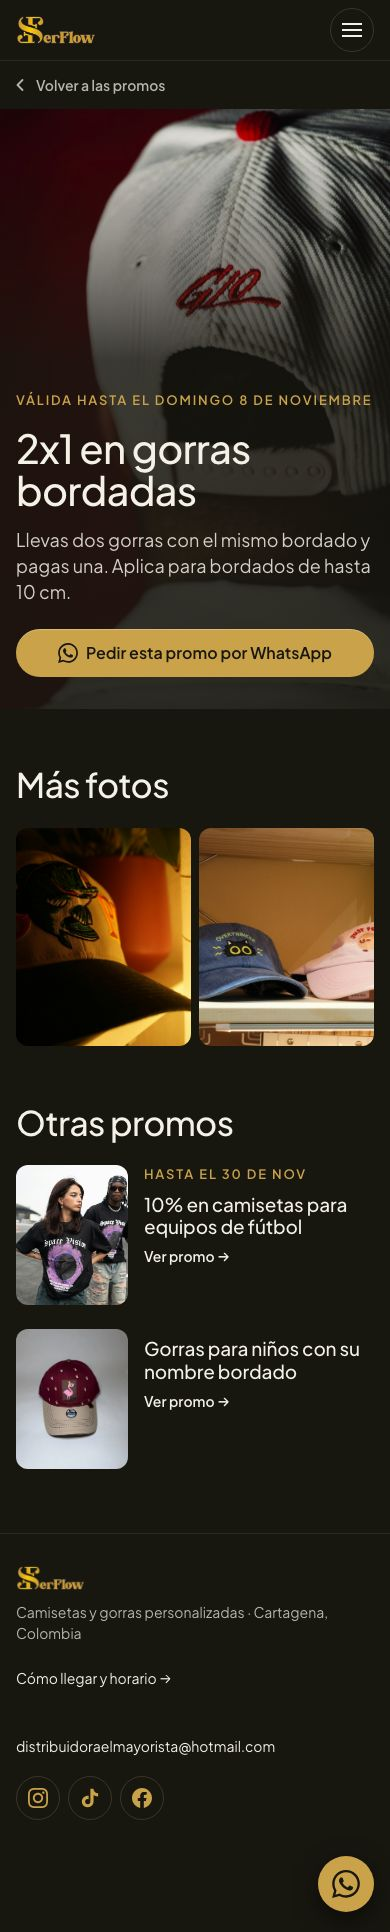
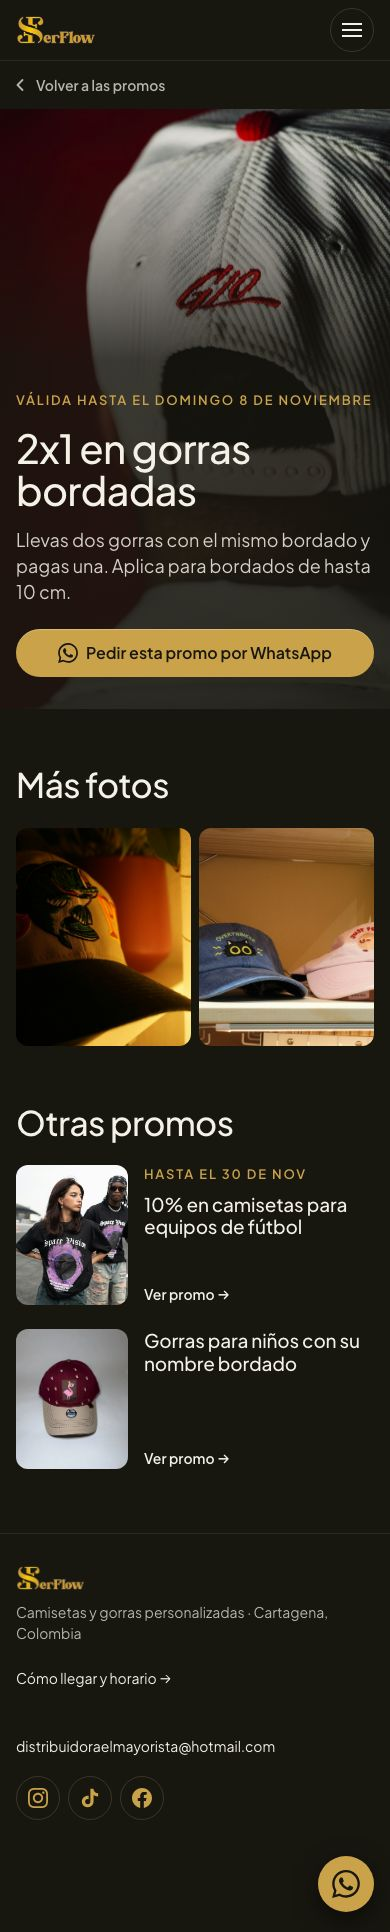
docs: PRI-286 customizer and 404 on the homepage system, closing rules for promo cards, new patterns in the system table

Changed region(s): [[0.3692, 0.6522, 0.9231, 0.7143]]

diff --git a/tempo/designs/canvases/portada-final/personalizador.css b/tempo/designs/canvases/portada-final/personalizador.css
@@ -1,0 +1,49 @@
+/*
+ * PRI-286 · /personaliza (PR #36, sin mergear) con el sistema de la portada. No se importa en el canvas: se inyecta
+ * en el deploy preview del PR, encima de refresh*.css y portada.css (body.pf, main.pf-v), y la captura va al frame.
+ * PUENTE: en el PR, PersonalizaPage arma las dos columnas con la rejilla de 12 (izquierda: prenda, vista previa, paso 3
+ * y Enviar; derecha: pasos 1 y 2) y toma las clases pf-* de la cabecera.
+ */
+
+/* Cabecera de página: la de Promos y la 404 (aire de una sección arriba, titular 64 / 40, bajada 12 debajo). La fila
+   título | filete | bajada de la ronda 5 (refresh-r3.css) no va: en la portada la bajada va debajo del título.
+   !important: el CSS del PR gana a las clases inyectadas en estas cajas. */
+.pf main.pf-v > div:first-child { display: block !important; padding: var(--pf-aire) var(--pf-m) 0 !important; }
+.pf main.pf-v > div:first-child::before, .pf main.pf-v > div:first-child::after, .pf main.pf-v > div:first-child > p::before { display: none !important; }
+.pf main.pf-v > div:first-child > p { padding: 0 !important; border: 0 !important; max-width: 40ch; }
+.pf main.pf-v > div:first-child > h1 { font-size: var(--pf-display); line-height: 1.05; font-weight: 500; letter-spacing: -0.02em; }
+.pf main.pf-v > div:first-child > p { margin-top: var(--pf-td) !important; font-size: var(--pf-lead); line-height: 1.45; color: var(--color-muted); }
+/* Cabecera -> contenido: 32 / 24, como en todas las secciones. */
+.pf main.pf-v > fieldset { padding: var(--pf-tc) var(--pf-m) 12px; }
+/* Pasos: el título de cada paso con la escala de tarjeta (22 / 18) y 48 / 40 entre pasos. */
+.pf main.pf-v section h2 { font-family: var(--font-display); font-size: var(--pf-h3); font-weight: 500; letter-spacing: -0.01em; }
+.pf main.pf-v > div.flex-col { gap: 40px; padding-inline: var(--pf-m); }
+
+@media (min-width: 1024px) {
+  .pf main.pf-v { display: grid; grid-template-columns: repeat(12, minmax(0, 1fr)); column-gap: var(--pf-g); grid-template-rows: auto 1fr; align-items: stretch; padding: 0 var(--pf-m) var(--pf-aire); }
+  .pf main.pf-v > div:first-child { grid-column: 1 / -1; padding: var(--pf-aire) 0 var(--pf-tc) !important; }
+  /* Izquierda en 6 columnas, derecha en 5 desde la 8 (el 6 | 5 del visor); mismo borde arriba y abajo. */
+  .pf main.pf-v > .pz-izq { grid-column: 1 / span 6; grid-row: 2; display: flex; flex-direction: column; justify-content: space-between; gap: 24px; position: static; padding: 0; }
+  /* !important: el PR pone col-start-2 / row-span-2 en este div. */
+  .pf main.pf-v > .pz-der { grid-column: 8 / -1 !important; grid-row: 2 !important; padding: 0; gap: 48px; }
+  .pf main.pf-v > .pz-der > section:last-child { flex: 1; }
+  .pf .pz-izq > * { align-self: stretch; }
+  .pf .pz-izq > fieldset { padding: 0; }
+  .pf .pz-izq > div.sticky { position: static; margin: 0; padding: 0; box-shadow: none; }
+  .pf .pz-izq > div.sticky > div.\@container { height: auto !important; aspect-ratio: 4 / 5; border-radius: var(--radius-tile); }
+  .pf .pz-izq > section { gap: 12px; }
+}
+
+/* Ronda 2 de la auto-revisión. */
+/* El disco de subir de la vista previa con contorno oro (como el del paso 1): el único oro relleno es Enviar. */
+.pf main.pf-v span.flex.size-11.rounded-full.bg-accent { background: transparent; border: 1px solid var(--color-accent); color: var(--color-accent); }
+/* La nota de Enviar alineada a la izquierda, como el resumen de arriba. */
+.pf form p.text-center.text-\[12px\] { text-align: left; }
+/* En el celular la herramienta cierra con el aire de sección antes del Footer, como las demás pantallas. */
+@media (max-width: 1023.98px) {
+  .pf form { padding-bottom: var(--pf-aire); }
+}
+/* Desktop: la Nota cierra en el mismo borde que Enviar. */
+@media (min-width: 1024px) {
+  .pf .pz-der textarea { min-height: 129px; }
+}

diff --git a/tempo/designs/canvases/portada-final/Pantallas.tsx b/tempo/designs/canvases/portada-final/Pantallas.tsx
@@ -10,7 +10,7 @@ import { Masonry, type MasonryTile } from "../../../../src/components/ui/Masonry
 import { PhotoCarousel } from "../../../../src/components/ui/PhotoCarousel";
 import { HeroCarousel } from "../../../../src/components/ui/HeroCarousel";
 import { PromoCard } from "../../../../src/components/ui/PromoCard";
-import { WHATSAPP_URL } from "../../../../src/lib/business";
+import { WHATSAPP_URL, whatsappUrl } from "../../../../src/lib/business";
 import { promoWhatsapp, validaHasta, type PromoView } from "../../../../src/lib/promos";
 import { Cabecera } from "./Portada";
 import gorraBordada2 from "../../../../src/assets/images/stock/gorra-bordada-2.jpg";
@@ -19,6 +19,8 @@ import gorrasEstante from "../../../../src/assets/images/stock/gorras-estante.jp
 import camisetasEstampadas from "../../../../src/assets/images/stock/camisetas-estampadas.jpg";
 import camisetaDtf from "../../../../src/assets/images/stock/camiseta-dtf.jpg";
 import kid1 from "../../../../src/assets/images/kids/kid1.webp";
+import pz390 from "./capturas/personalizador-390.jpg";
+import pz1280 from "./capturas/personalizador-1280.jpg";
 import { Marco } from "../refresh-oro-viejo/comun";
 
 /*
@@ -354,6 +356,54 @@ export function PromoDetalle({ width }: { width: W }) {
     </Marco>
   );
 }
+
+/* ---------- 4. Personalizador ---------- */
+
+/*
+ * /personaliza es del PR #36 (sin mergear: su código no está en esta rama). Igual que en refresh-oro-viejo, el frame es
+ * la captura de su deploy preview con refresh*.css + portada.css + personalizador.css inyectados (scratchpad pz.mjs).
+ * La propuesta está en personalizador.css; el contenido es el del PR tal cual.
+ */
+const Captura = ({ src, width }: { src: string; width: number }) => <img src={src} alt="" width={width} className="block h-auto" style={{ width }} />;
+export const PersonalizadorMobile = () => <Captura src={pz390} width={390} />;
+export const PersonalizadorDesktop = () => <Captura src={pz1280} width={1280} />;
+
+/* ---------- 5. 404 ---------- */
+
+/** El texto y las dos salidas de master como cabecera de página; con promos vigentes, Promos de hoy en tarjetas. */
+export function NoExiste({ width }: { width: W }) {
+  const desktop = width === 1280;
+  return (
+    <Marco width={width} nuevo>
+      <div className="pf font-body text-ink">
+        <main className="pf-v pf-c">
+          <div className="pf-pagina-titulo">
+            <p className="pf-pie">Error 404</p>
+            <h1 className="pf-display">Esta página no existe</h1>
+            <p className="pf-lead">
+              Puede que el link esté viejo o mal copiado. Si venías por una promo, puede que ya haya terminado. Escríbenos y te mandamos lo que buscabas.
+            </p>
+            <div className="pf-404-botones">
+              <Button variant="whatsapp" href={whatsappUrl("¡Hola! Llegué a una página de Serflow que no existe. Estaba buscando...")} external fullWidth={!desktop}>
+                Escríbenos por WhatsApp
+              </Button>
+              <Button variant="secondary" href="/" fullWidth={!desktop}>
+                Ir al inicio
+              </Button>
+            </div>
+          </div>
+          <section aria-labelledby="promos-de-hoy-titulo" className="pf-sec">
+            <Cabecera id="promos-de-hoy" title="Promos de hoy" />
+            <PromoTarjetas promos={PROMOS} />
+          </section>
+        </main>
+      </div>
+    </Marco>
+  );
+}
+
+export const NoExisteMobile = () => <NoExiste width={390} />;
+export const NoExisteDesktop = () => <NoExiste width={1280} />;
 
 export const PromosMobile = () => <Promos width={390} />;
 export const PromosDesktop = () => <Promos width={1280} />;

diff --git a/tempo/designs/canvases/portada-final/Sistema.tsx b/tempo/designs/canvases/portada-final/Sistema.tsx
@@ -20,6 +20,14 @@ const FILAS: Fila[] = [
   { medida: "Hero", heirest: "A sangre · 800 de alto / 844", serflow: "A sangre · 720 / 600", porque: "Viewport menos el Header: se ve que la página sigue." },
   { medida: "Fotos de tarjeta", heirest: "Verticales (0,71-0,87) · sin radio · pie 8-12 debajo, sin caja", serflow: "Prenda 4:5 (0,8) · servicio 1:1 en 1280, 4:5 en 390 · radio 12 · pie 12-16 debajo, sin caja", porque: "Radio 12 = radius-tile del refresh. Servicio cuadrado para que no pese más que Disponible ahora." },
   { medida: "Botones", heirest: "38 alto · 14 mayúsculas · radio 3 · borde", serflow: "52 / 48 alto · 16 · píldora · oro relleno o borde", porque: "Decisión de la ronda 4: target táctil de 48 y el oro solo en la acción principal." },
+  /* Patrones del resto de las pantallas: salen de las filas de arriba, sin medidas nuevas. */
+  { medida: "Título de página interior", heirest: "Sale de Aire, Titular y Bajada", serflow: "96 / 64 de aire arriba · pie · titular 64 / 40 · bajada 12 debajo", porque: "Promos, 404 y personalizador: la página arranca como una sección más." },
+  { medida: "Banner de categoría", heirest: "Sale de Hero", serflow: "A sangre · 520 / 340 · nombre (h1) y bajada abajo a la izquierda en el margen", porque: "El texto del hero sobre la foto de la categoría; sin \"N productos\" (ya está en la pestaña)." },
+  { medida: "Muro del catálogo y Más de", heirest: "Sale de Columnas y calle", serflow: "4 / 2 columnas (3 de 12) · calle 8 · fotos 4:5 · radio 12", porque: "La misma celda que Disponible ahora: cada foto cae en 3 columnas de la rejilla." },
+  { medida: "Tarjeta de cierre del muro", heirest: "No tiene (sale de Hero y Fotos de tarjeta)", serflow: "Ocupa las celdas que faltan · superficie con borde, radio 12 · texto abajo a la izquierda: 1 celda h3 + botón, 2 o más h2 + bajada + botón", porque: "Cierra la última fila sin fotos de relleno; el texto se ancla como el del hero." },
+  { medida: "Visor", heirest: "Sale de Columnas (6 | 5 desde la 8)", serflow: "Volver en su fila · foto en 6 (1:1; 4:5 a sangre en 390) · panel en 5, pegado al borde de abajo de la foto", porque: "Con una sola foto el panel se compacta; Pedir por WhatsApp queda arriba del pliegue de 800." },
+  { medida: "Promo en la lista", heirest: "Sale de Diseña la tuya (5 | 6 desde la 7)", serflow: "Texto en 5 · foto 16:9 en 6 · botones en el borde de abajo", porque: "Fotos parejas en la lista; si el texto es más alto, la foto crece con él." },
+  { medida: "Tarjetas de promo", heirest: "Sale de Fotos de tarjeta", serflow: "Una fila llena: 2 en 6 columnas, 3 en 4 · foto 4:3 · vigencia con la etiqueta · en 390, filas de 112 + texto", porque: "Otras promos y la 404, como Disponible ahora y Qué hacemos." },
 ];
 
 export function Sistema() {

diff --git a/tempo/designs/canvases/portada-final/pantallas.css b/tempo/designs/canvases/portada-final/pantallas.css
@@ -135,7 +135,7 @@
 .pf-promo-tarjetas { display: grid; gap: 24px; }
 .sf-r3 .pf .pf-promo-tarjetas a > div { display: grid; grid-template-columns: 112px minmax(0, 1fr); column-gap: 16px; align-items: start; }
 .sf-r3 .pf .pf-promo-tarjetas a img { aspect-ratio: 4 / 5; height: auto; }
-.sf-r3 .pf .pf-promo-tarjetas a > div > div.flex-1.p-4:last-child { padding: 0; gap: 0; justify-content: flex-start; }
+.sf-r3 .pf .pf-promo-tarjetas a > div > div.flex-1.p-4:last-child { padding: 0; gap: 0; justify-content: flex-start !important; }
 /* En el celular, sin la descripción: cortada a dos líneas quedaba a medio decir y más alta que la miniatura. */
 .sf-r3 .pf .pf-promo-tarjetas p { display: none; }
 .pf .pf-promo-tarjetas a > div > div:last-child > span:first-child { padding: 0; background: none; font-size: var(--pf-pie); font-weight: 600; letter-spacing: 0.14em; text-transform: uppercase; color: var(--color-accent); }
@@ -150,4 +150,21 @@
   .sf-r3 .pf .pf-promo-tarjetas a img { aspect-ratio: 4 / 3; }
   .sf-r3 .pf .pf-promo-tarjetas p { display: block; max-width: 52ch; }
   .sf-r3 .pf .pf-promo-tarjetas a > div > div.flex-1.p-4:last-child { padding: 16px 0 0; }
+}
+
+/* ---------- 5. 404: cabecera de página con sus dos salidas; Promos de hoy en tarjetas, una fila llena ---------- */
+
+.pf-404-botones { display: flex; flex-direction: column; gap: 8px; width: 100%; margin-top: var(--pf-tc); }
+@container pf (min-width: 48rem) {
+  .pf-404-botones { flex-direction: row; width: auto; }
+}
+/* Celular: el texto toma el alto de la miniatura y Ver promo queda en su borde de abajo, en todas las filas. */
+.sf-r3 .pf .pf-promo-tarjetas a > div { align-items: stretch; }
+.sf-r3 .pf .pf-promo-tarjetas a > div > div.flex-1.p-4:last-child { display: flex; flex-direction: column; }
+.sf-r3 .pf .pf-promo-tarjetas a > div > div.flex-1.p-4:last-child > h3:first-child { margin-top: 0; }
+.sf-r3 .pf .pf-promo-tarjetas a > div > div.flex-1.p-4:last-child > span:last-child { margin-top: auto; }
+@container pf (min-width: 48rem) {
+  /* Desktop: tarjetas en fila; la sin fecha deja el alto de la etiqueta para que su título quede en la línea de las vecinas. */
+  .sf-r3 .pf .pf-promo-tarjetas a > div > div.flex-1.p-4:last-child > h3:first-child { margin-top: calc(var(--pf-pie) * 1.5 + 8px); }
+  .sf-r3 .pf .pf-promo-tarjetas a > div > div.flex-1.p-4:last-child > span:last-child { margin-top: 8px; }
 }

diff --git a/tempo/designs/canvases/portada-final/index.canvas.tsx b/tempo/designs/canvases/portada-final/index.canvas.tsx
@@ -14,6 +14,10 @@ import {
   PromosDesktop,
   PromoDetalleMobile,
   PromoDetalleDesktop,
+  NoExisteMobile,
+  NoExisteDesktop,
+  PersonalizadorMobile,
+  PersonalizadorDesktop,
 } from "./Pantallas";
 
 /* PRI-286 · portada final, en 390 y 1280, con el sistema medido en heirest.com; a la derecha, el resto de las pantallas. */
@@ -35,6 +39,10 @@ export default function PortadaFinalCanvas() {
       <Storyboard id="PromosDesktop" name="Promos · lista · 1280" component={PromosDesktop} layout={{ x: 7440, y: 0 }} />
       <Storyboard id="PromoDetalleMobile" name="Promos · detalle · 390" component={PromoDetalleMobile} layout={{ x: 6950, y: 5000 }} />
       <Storyboard id="PromoDetalleDesktop" name="Promos · detalle · 1280" component={PromoDetalleDesktop} layout={{ x: 7440, y: 5000 }} />
+      <Storyboard id="PersonalizadorMobile" name="Personalizador (PR #36) · 390" component={PersonalizadorMobile} layout={{ x: 8820, y: 0 }} />
+      <Storyboard id="PersonalizadorDesktop" name="Personalizador (PR #36) · 1280" component={PersonalizadorDesktop} layout={{ x: 9310, y: 0 }} />
+      <Storyboard id="NoExisteMobile" name="404 · 390" component={NoExisteMobile} layout={{ x: 10690, y: 0 }} />
+      <Storyboard id="NoExisteDesktop" name="404 · 1280" component={NoExisteDesktop} layout={{ x: 11180, y: 0 }} />
     </Canvas>
   );
 }
